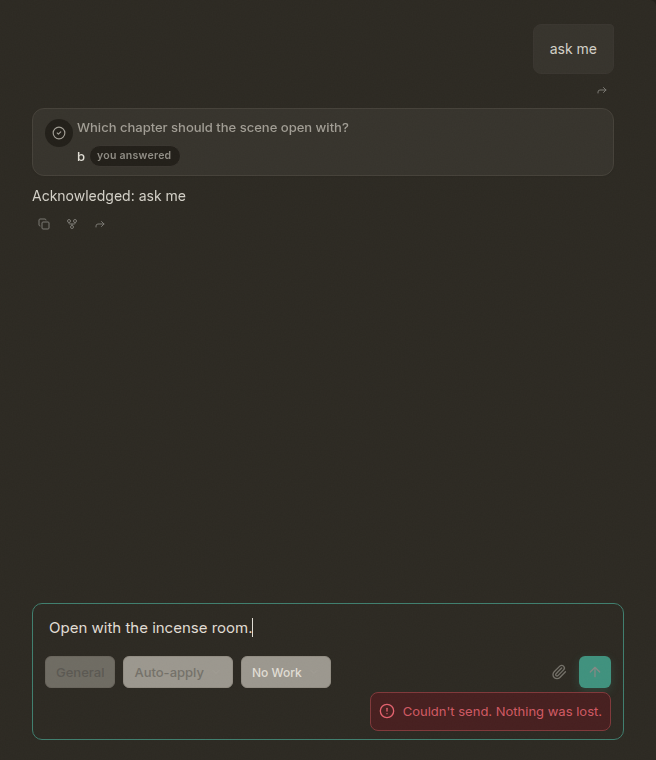
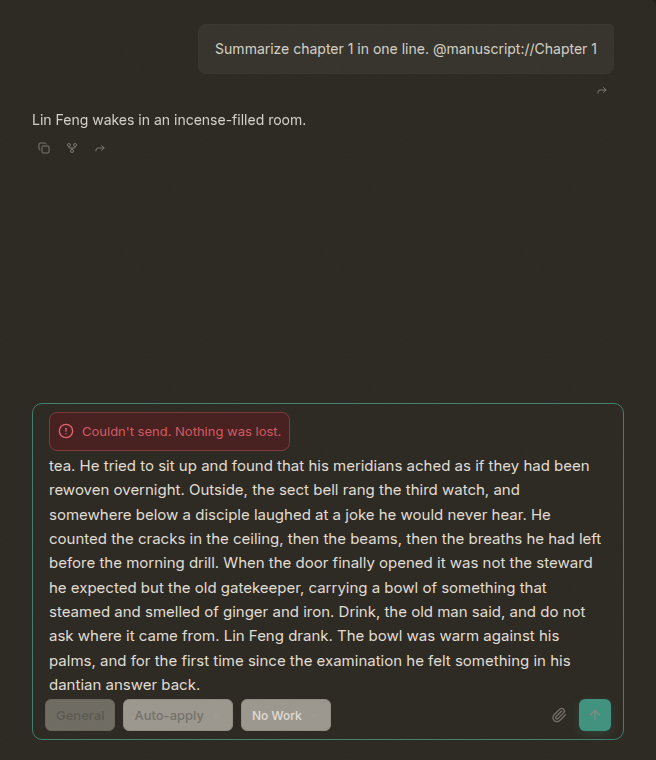
feat(composer): show the refused-recording card inside the box, above the words
The Composer owns the card now: inside its frame, before the editor, left-aligned
with the text. Every host draws it the same, and it never stacks against the
strips above the box (DraftDock, the archived-Work strip). It still has no
buttons and is a live alert; it clears on the next recorded send. The editor is
the same node with focus and caret intact, the toolbar does not move, and the
editor keeps its own max height and scrolling under the card.

diff --git a/apps/app/src/components/app/composer/Composer.tsx b/apps/app/src/components/app/composer/Composer.tsx
@@ -519,6 +519,15 @@ export const Composer = forwardRef<ComposerHandle, ComposerProps>(function Compo
       )}
       aria-busy={busy || pending > 0 || undefined}
     >
+      {submitFailure ? (
+        // Inside the frame, above the words: the Composer owns it, so every host draws it the same
+        // and it never stacks against the strips above the box. No buttons: Send is the retry.
+        <div className="mb-[var(--chat-space-inline)] flex px-[var(--chat-space-inline)]">
+          <ErrorCard inline>
+            <p className="whitespace-normal">{t`Couldn't send. Nothing was lost.`}</p>
+          </ErrorCard>
+        </div>
+      ) : null}
       <EditorContent
         editor={editor}
         data-placeholder={placeholder ?? rotatingPlaceholder}
@@ -579,14 +588,6 @@ export const Composer = forwardRef<ComposerHandle, ComposerProps>(function Compo
           </span>
         ) : null}
       </div>
-      {submitFailure ? (
-        <div className="mt-[var(--chat-space-inline)] flex justify-end">
-          <ErrorCard inline>
-            {/* No buttons: pressing Send again is the retry. The sentence may wrap in a very narrow dock. */}
-            <p className="whitespace-normal">{t`Couldn't send. Nothing was lost.`}</p>
-          </ErrorCard>
-        </div>
-      ) : null}
     </div>
   );
 });

diff --git a/apps/app/src/components/app/composer/Composer.test.tsx b/apps/app/src/components/app/composer/Composer.test.tsx
@@ -168,10 +168,18 @@ it("draws a refused recording as the failure card and clears it once a send is r
   expect(alert?.textContent).toBe("Couldn't send. Nothing was lost.");
   expect(alert?.querySelector("button")).toBeNull();
   expect(editorElement()?.textContent).toBe("Keep these words");
+  // Inside the composer frame, above the words, and the editor is the same node afterwards.
+  const frame = host.querySelector("[data-composer]");
+  const editorBefore = editorElement();
+  expect(alert && frame?.contains(alert)).toBe(true);
+  expect(alert?.compareDocumentPosition(editorBefore as Node)).toBe(
+    Node.DOCUMENT_POSITION_FOLLOWING,
+  );
 
   onSubmit.mockResolvedValueOnce(true);
   await pressEnter();
   expect(host.querySelector("[role='alert']")).toBeNull();
+  expect(editorElement()).toBe(editorBefore);
   expect(editorElement()?.textContent).toBe("");
 });
 

diff --git a/apps/app/src/components/app/composer/AGENTS.md b/apps/app/src/components/app/composer/AGENTS.md
@@ -39,7 +39,8 @@ This directory owns authored text, reference atoms, skill atoms, and pending/fai
 - Send transfers the exact structured fingerprint to the journal before clearing
   unchanged editor words. `onSubmit` returns whether local recording succeeded;
   network admission does not quarantine or lock authoring. A local storage refusal
-  keeps the live draft and reports the failure under the message box as the
-  shared `ErrorCard` (`components/app/ErrorCard.tsx`), right-aligned, a live
-  alert with no buttons: pressing Send again is the retry. Its sentence may wrap at the narrowest
-  dock.
+  keeps the live draft and reports the failure inside the composer frame, above the
+  words, as the shared `ErrorCard` (`components/app/ErrorCard.tsx`), a live alert
+  with no buttons: pressing Send again is the retry. The Composer owns it, so
+  every host draws it the same and it never stacks with the strips above the box.
+  Its sentence may wrap at the narrowest dock.
